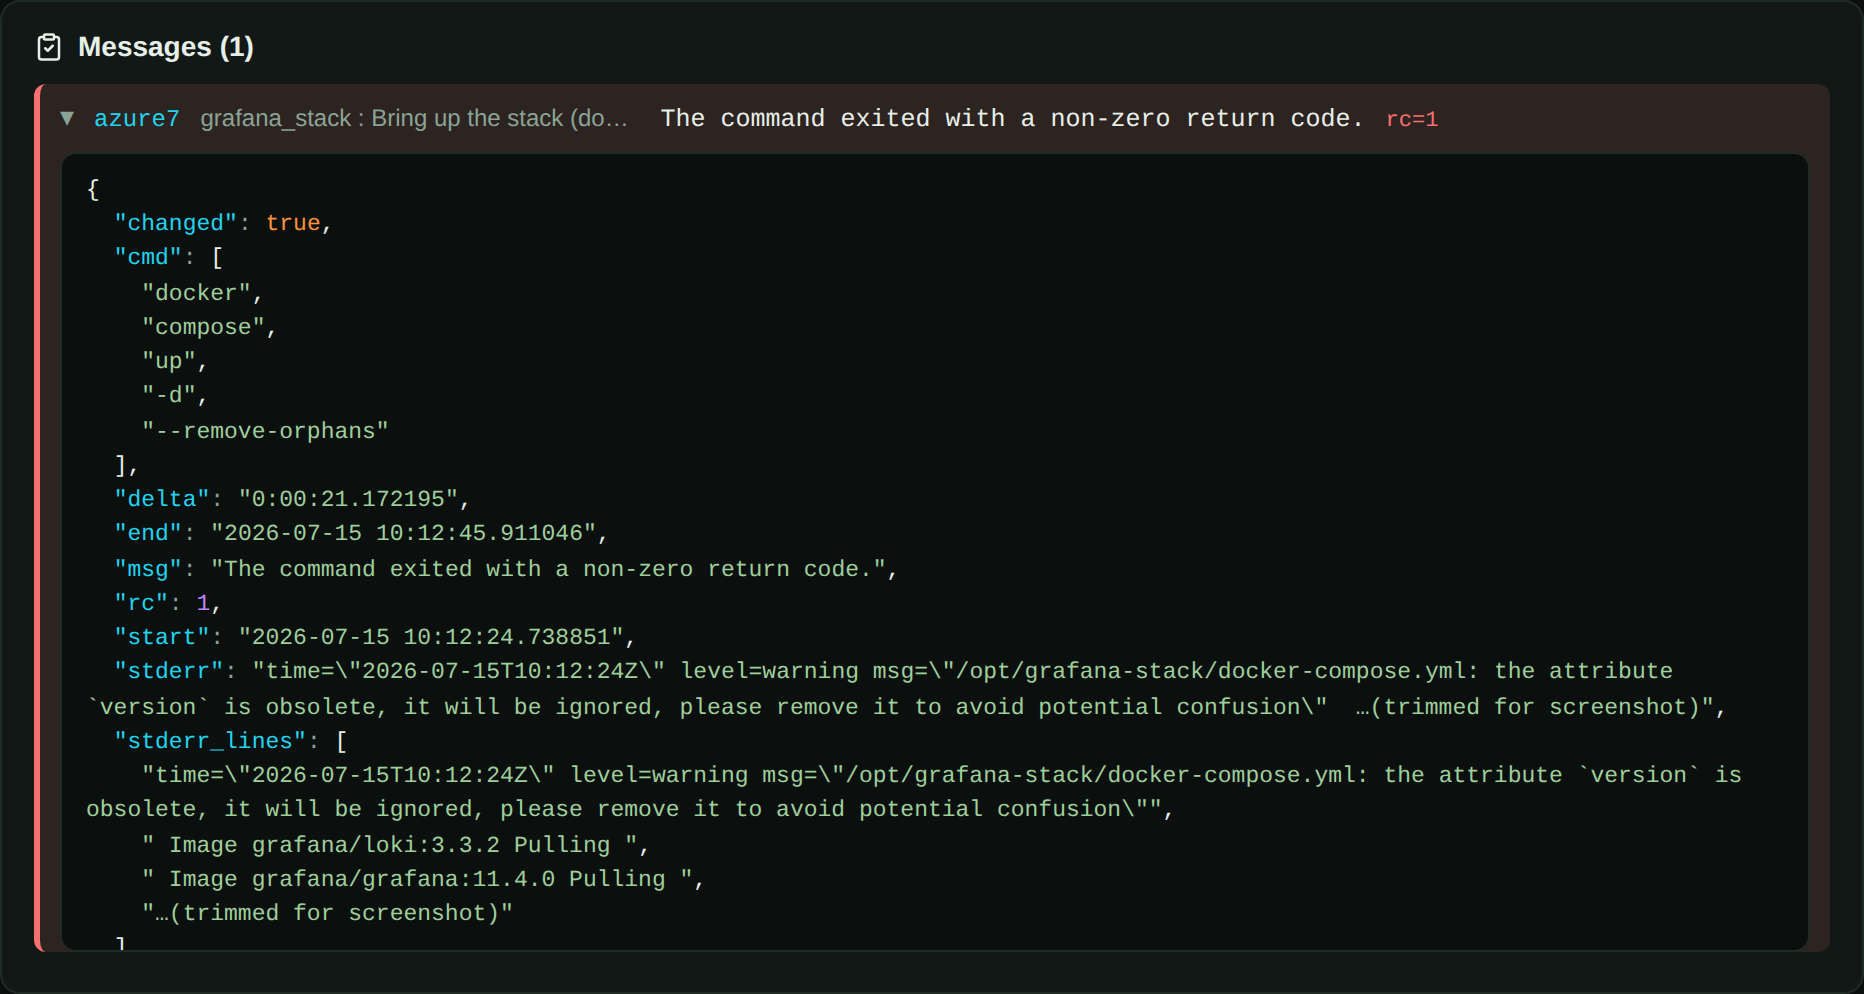
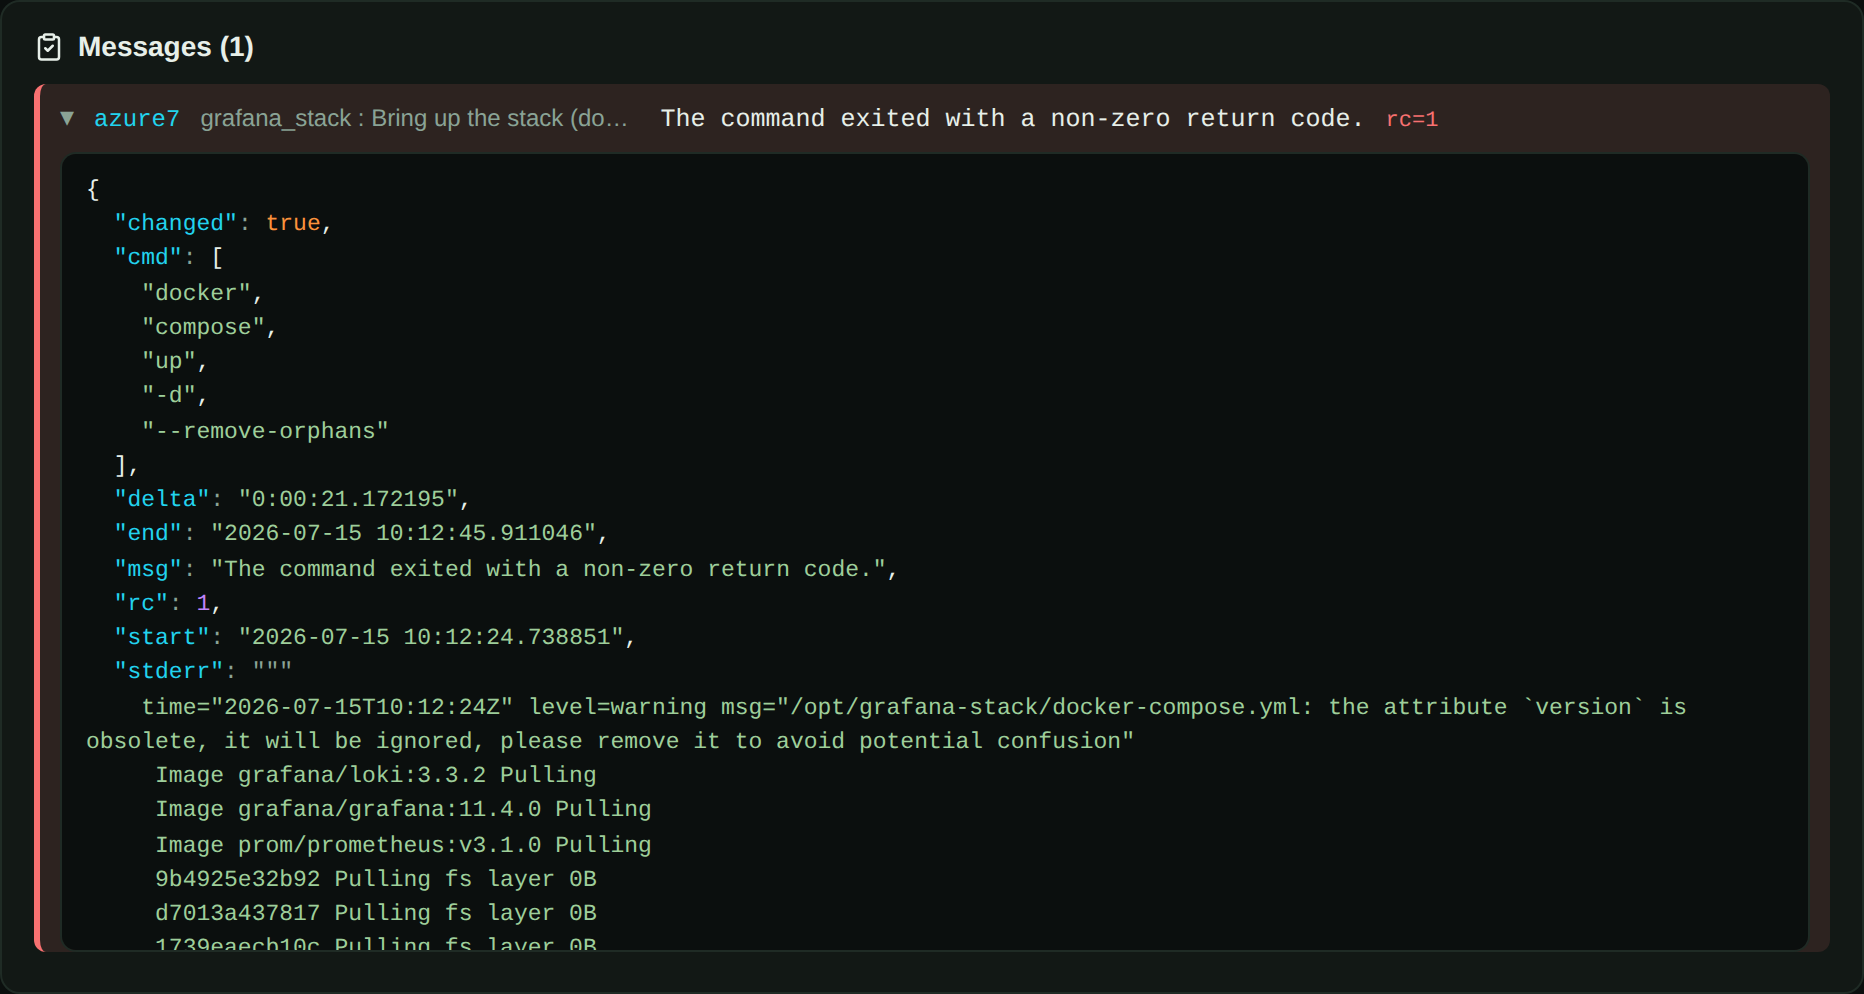
feat: parse multi-line string fields in the JSON result preview
A task's stderr/stdout (and any wrapped msg or stack trace) came back as a
single JSON string with hundreds of embedded \n — the preview showed it as
one unreadable escaped blob. Detect multi-line string values and explode
them into real lines inside a """ fence, quotes/newlines shown verbatim.

Rewrote highlightJson as a recursive renderer (objects/arrays/scalars) so it
can special-case strings; single-line strings keep their inline JSON quoting.
The container already scroll-clamps at 400px, so a long stderr stays bounded.

Screenshot refreshed (rendered mock — real markup + style.css + the real
failed grafana_stack result; live bind blocked in sandbox).

Changed region(s): [[0.0622, 0.6549, 0.9024, 0.9668], [0.6534, 0.7485, 0.7157, 0.8109], [0.809, 0.7485, 0.8401, 0.8109]]

diff --git a/web/app.js b/web/app.js
@@ -386,24 +386,44 @@ function highlightCode(text, path) {
   return text.split("\n").map(fn).join("\n");
 }
 
-// highlightJson returns HTML for a pretty-printed JSON value, reusing the same
-// tok-* spans as the code preview (keys, strings, numbers, booleans/null). It
-// escapes only & < > so the string-matching regex can still see the quotes.
-function highlightJson(value) {
-  const json = (typeof value === "string" ? value : JSON.stringify(value, null, 2))
-    .replace(/&/g, "&amp;").replace(/</g, "&lt;").replace(/>/g, "&gt;");
-  return json.replace(
-    /("(?:\\u[a-fA-F0-9]{4}|\\[^u]|[^\\"])*")(\s*:)?|\b(?:true|false|null)\b|-?\d+(?:\.\d+)?(?:[eE][+-]?\d+)?/g,
-    (match, str, colon) => {
-      if (str !== undefined) {
-        return colon !== undefined
-          ? `<span class="tok-key">${str}</span><span class="tok-punct">${colon}</span>`
-          : `<span class="tok-str">${str}</span>`;
-      }
-      return /^-?\d/.test(match)
-        ? `<span class="tok-num">${match}</span>`
-        : `<span class="tok-bool">${match}</span>`;
-    });
+// highlightJson renders a JSON value as coloured, indented HTML, reusing the
+// code preview's tok-* palette (keys, strings, numbers, booleans/null). Values
+// arrive already parsed, so a multi-line string (a task's `stderr` / `stdout`,
+// a wrapped `msg`, a stack trace) is detected and exploded into real lines
+// instead of one \n-laden blob — see hlJsonString.
+function highlightJson(value, indent) {
+  indent = indent || 0;
+  const pad = "  ".repeat(indent);
+  const padIn = "  ".repeat(indent + 1);
+  if (value === null || value === undefined) return `<span class="tok-bool">null</span>`;
+  const t = typeof value;
+  if (t === "boolean") return `<span class="tok-bool">${value}</span>`;
+  if (t === "number") return `<span class="tok-num">${Number.isFinite(value) ? value : "null"}</span>`;
+  if (t === "string") return hlJsonString(value, indent);
+  if (Array.isArray(value)) {
+    if (!value.length) return "[]";
+    return "[\n" + value.map((v) => padIn + highlightJson(v, indent + 1)).join(",\n") + "\n" + pad + "]";
+  }
+  const keys = Object.keys(value);
+  if (!keys.length) return "{}";
+  return "{\n" + keys.map((k) =>
+    padIn + `<span class="tok-key">${esc(JSON.stringify(k))}</span><span class="tok-punct">: </span>`
+      + highlightJson(value[k], indent + 1)
+  ).join(",\n") + "\n" + pad + "}";
+}
+
+// hlJsonString renders a string value. Single-line strings stay inline (JSON
+// quoting preserved); a multi-line string is exploded into a fenced block so
+// \n-separated command output reads line by line rather than as one escaped
+// wall of text. Its real newlines/quotes are shown verbatim (HTML-escaped).
+function hlJsonString(str, indent) {
+  if (!str.includes("\n")) return `<span class="tok-str">${esc(JSON.stringify(str))}</span>`;
+  const pad = "  ".repeat(indent);
+  const padIn = "  ".repeat(indent + 1);
+  const lines = str.replace(/\r\n?/g, "\n").split("\n")
+    .map((l) => padIn + `<span class="tok-str">${l === "" ? "" : esc(l)}</span>`).join("\n");
+  const fence = `<span class="tok-punct" title="multi-line string">"""</span>`;
+  return `${fence}\n${lines}\n${pad}${fence}`;
 }
 
 async function openRawFileModal(repoId, candidates, title) {